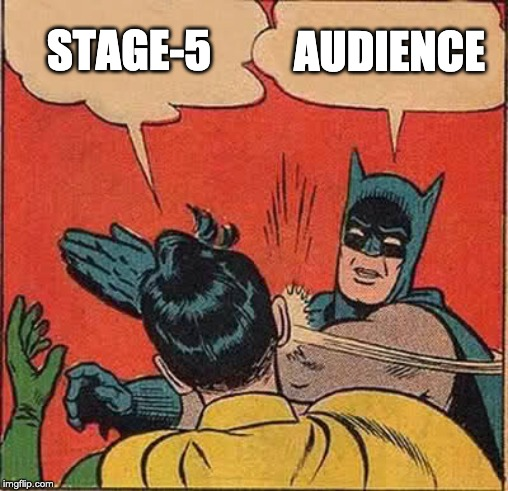
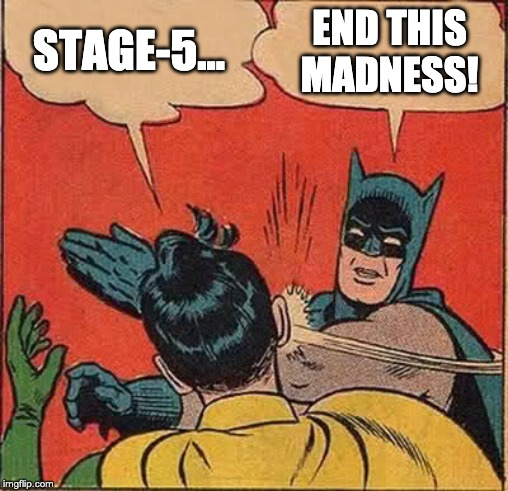
grequests-https-talk: wip

Changed region(s): [[0.561, 0.0, 0.9744, 0.2138], [0.0591, 0.0305, 0.4724, 0.1527]]

diff --git a/decks/grequests-https-talk/main.html b/decks/grequests-https-talk/main.html
@@ -28,6 +28,11 @@
 			link.href = window.location.search.match( /print-pdf/gi ) ? '../../css/print/pdf.css' : '../../css/print/paper.css';
 			document.getElementsByTagName( 'head' )[0].appendChild( link );
 		</script>
+		<style>
+		input[type=checkbox] {
+    		transform: scale(2);
+		}
+		</style>
 
 		<!--[if lt IE 9]>
 		<script src="../../lib/js/html5shiv.js"></script>
@@ -38,14 +43,29 @@
 
 		<div class="reveal">
 
-			<!-- Any section element inside of this container is displayed as a slide -->
-			<div class="slides">
-				<section>
-					<h3>The curious case of slow/fast grequests code</h3>
-					<p>
-						<small><a href="mailto:saurabh.hirani@gmail.com">saurabh.hirani@gmail.com</a> / <a href="http://twitter.com/sphirani">@sphirani</a></small>
-					</p>
-				</section>
+		<!-- Any section element inside of this container is displayed as a slide -->
+		<div class="slides">
+		<section>
+			<h3>The curious case of slow/fast grequests code</h3>
+			<p>
+				<small><a href="mailto:saurabh.hirani@gmail.com">saurabh.hirani@gmail.com</a> / <a href="http://twitter.com/sphirani">@sphirani</a></small>
+			</p>
+		</section>
+
+        <section>
+          <h2>Show of hands</h2>
+          <ul>
+			<li class='fragment'>How many of you feel that...</li>
+			<li class='fragment'>Show of hands is NOT a good way to get audience feedback?</li>
+			<li class='fragment'>Mandatory subtle joke - check</li>
+
+	<aside class="notes">
+		Oh hey, these are some notes. They'll be hidden in your presentation, but you can see them if you open the speaker notes window (hit »S« on your keyboard).
+	</aside>
+
+		  </ul>
+		  </h2>
+		</section>
 
         <section>
           <h2>Use case</h2>
@@ -281,9 +301,13 @@
 			</ul>
 		</section>
 
-		<section> <img src="./images/grequests-stage-5-slap.jpg" style="top:0;left:0;" > </section>
+		<section>
+		    <img src="./images/grequests-stage-5-slap.jpg" style="top:0;left:0;" >
+		</section>
 
-		<section> <img src="./images/grequests-its-over.jpg" style="top:0;left:0;" > </section>
+		<section>
+			<img src="./images/grequests-its-over.jpg" style="top:0;left:0;" >
+		</section>
 
 		<section>
 			<h2>Takeaways</h2>
